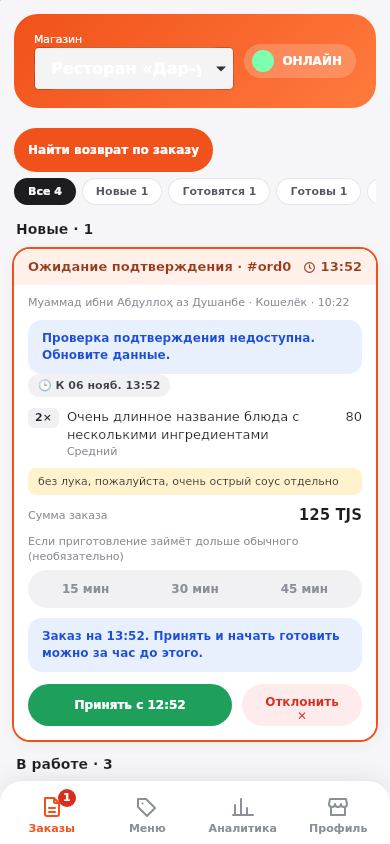
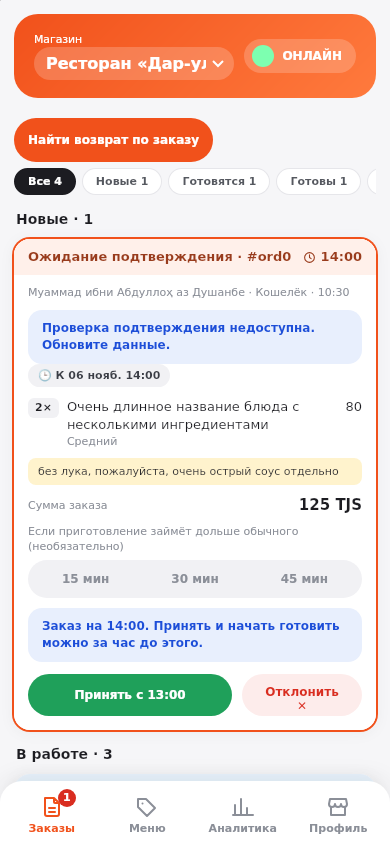
docs(pilot): close mobile WebKit evidence and checkpoint Supabase confirmation blocker

diff --git a/docs/RESUME-AR.md b/docs/RESUME-AR.md
@@ -1,5 +1,10 @@
 # نقطة الاستئناف — مرشح TALABOT
 
+أولوية الموبايل والروسية محفوظة عندa6a08c32426d2f2bf46b018026d7b44a6924994a، الإصدارpilot-mobile-20261106.1. [الأدلة](mobile-20261106/HANDOFF-AR.md). نجحت57حالةChromium و57حالةWebKit وعزل4جلسات بمكتبةالدخول الفعلية واستجاباتاصطناعية. لا تكررها. متابعة تباينselect المتجر وحده بالتشغيل42206817421. لم تتغير SQLأو الاتفاقات.
+
+تجهيز القاعدة: مشروعfsvrsvqfknogwmhccera موجود، ولا تعِد إنشاءه. محاولتاapply_migration انتهتاstatus=expired عند تأكيد المزوّد، وأكدت القراءات أنpublicفارغ بعدهما. هذه ليست صلاحيةكتابة مرفوضة403 ولا فشلSQLولا تطبيقاً جزئياً. يلزم إتمام تأكيد موصلSupabase ثم تطبيق مخطط المرشح وحساباتالاختبار وStorage/Realtime والتحقق على الهدف الجديد. حزمةالواجهات59ملفاً مجهزة دون مرجعإنتاج؛ لا رابطمنشور بعد. لا توقف العمل المستقل بانتظار الفوترة، ولا تبدّل نشرGitHubPages الحالي.
+
+
 آخر مطابقة روابط Safari: [تسليم الاستضافة المعزولة](pilot-20261105/hosted/HANDOFF-AR.md). الروابط الخمسة المنشورة تطابق ca8808dd، ولا تحمل المرشح463ab241. مشروع الاختبار fsvrsvqfknogwmhccera موجود وخالٍ؛ لا تكرّر إنشاءه. لم يُنشر رابط جديد. قيد التكلفة موضح بالتسليم مع خطوة واحدة للمالك؛ لا تبدّل GitHub Pages القائم.
 
 6 نوفمبر2026، دوشنبه. الفرع `candidate/pilot-readiness-20261105`.

diff --git a/docs/pilot-20261105/hosted/HANDOFF-AR.md b/docs/pilot-20261105/hosted/HANDOFF-AR.md
@@ -1,3 +1,5 @@
+> تحديث: الأولوية الحالية وإثبات الموبايل في [تسليم الموبايل](../../mobile-20261106/HANDOFF-AR.md). قيد الفوترة أدناه لا يوقف التجهيز المستقل. العائق المثبت الأحدث هو انتهاء تأكيد مزوّدSupabase لتطبيق المخطط؛ حزمة الواجهات الجديدة جاهزة للبناء والمعزولة عن قاعدة الإنتاج، ولم تُنشر بعد.
+
 # مطابقة روابط Safari وتجهيز الاستضافة المعزولة
 
 فحص 6 نوفمبر 2026. مصدر المرشح: `463ab2418cffc2f5ee59097b1f41c1c1527325b6`.
